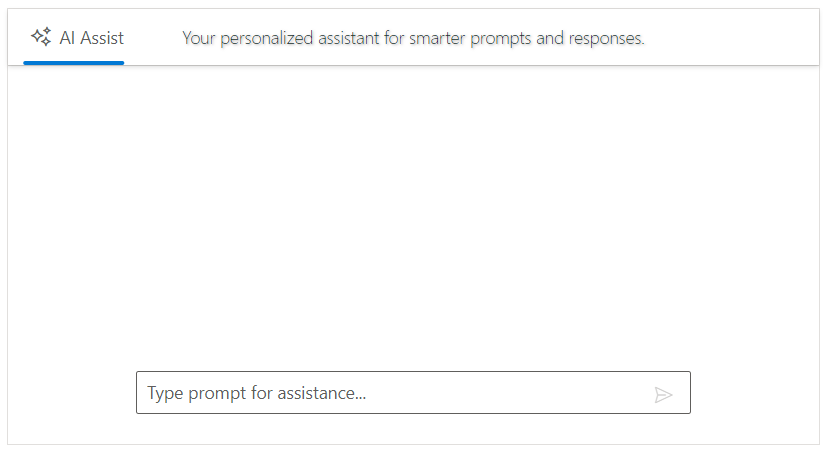
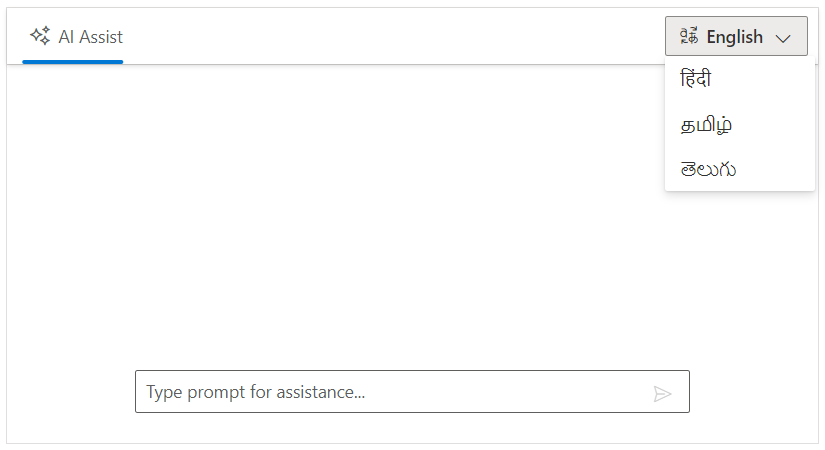
903620: Updated template sample for AI assist view.

diff --git a/ej2-asp-core-mvc/code-snippet/ai-assistview/toolbar-items/template/template.cs b/ej2-asp-core-mvc/code-snippet/ai-assistview/toolbar-items/template/template.cs
@@ -3,7 +3,7 @@ using Syncfusion.EJ2.Navigations;
 public List<ToolbarItem> Items = new List<ToolbarItem>();
 public ActionResult Template()
 {
-    Items.Add(new ToolbarItem { Type = ItemType.Input, Template = "Your personalized assistant for smarter prompts and responses.", Align = ItemAlign.Center });
+    Items.Add(new ToolbarItem { Type = ItemType.Input, Template = "<div id=\"ddMenu\"></div>", Align = ItemAlign.Center });
     ViewBag.Items = Items;
     return View();
 }

diff --git a/ej2-asp-core-mvc/ai-assistview/EJ2_ASP.NETCORE/toolbar-items.md b/ej2-asp-core-mvc/ai-assistview/EJ2_ASP.NETCORE/toolbar-items.md
@@ -26,6 +26,9 @@ You can customize the toolbar icons by using the `iconCss` property.
 {% highlight razor tabtitle="CSHTML" %}
 {% include code-snippet/ai-assistview/toolbar-items/align/tagHelper %}
 {% endhighlight %}
+{% highlight c# tabtitle="Align.cs" %}
+{% include code-snippet/ai-assistview/toolbar-items/align/align.cs %}
+{% endhighlight %}
 {% endtabs %}
 
 ![IconCss](images/align.png)
@@ -40,6 +43,9 @@ In the following example, toolbar item type is set as `Button`.
 {% highlight razor tabtitle="CSHTML" %}
 {% include code-snippet/ai-assistview/toolbar-items/itemtype/tagHelper %}
 {% endhighlight %}
+{% highlight c# tabtitle="Itemtype.cs" %}
+{% include code-snippet/ai-assistview/toolbar-items/itemtype/itemtype.cs %}
+{% endhighlight %}
 {% endtabs %}
 
 ![Itemtype](images/align.png)
@@ -51,6 +57,9 @@ You can use the `text` property to set the text for toolbar item.
 {% tabs %}
 {% highlight razor tabtitle="CSHTML" %}
 {% include code-snippet/ai-assistview/toolbar-items/text/tagHelper %}
+{% endhighlight %}
+{% highlight c# tabtitle="Text.cs" %}
+{% include code-snippet/ai-assistview/toolbar-items/text/text.cs %}
 {% endhighlight %}
 {% endtabs %}
 
@@ -64,6 +73,9 @@ You can use the `visible` property to specify whether to show or hide the toolba
 {% highlight razor tabtitle="CSHTML" %}
 {% include code-snippet/ai-assistview/toolbar-items/visible/tagHelper %}
 {% endhighlight %}
+{% highlight c# tabtitle="Visible.cs" %}
+{% include code-snippet/ai-assistview/toolbar-items/visible/visible.cs %}
+{% endhighlight %}
 {% endtabs %}
 
 ![Visible](images/visible.png)
@@ -75,6 +87,9 @@ You can use the `disabled` property to disable the toolbar item. By default, its
 {% tabs %}
 {% highlight razor tabtitle="CSHTML" %}
 {% include code-snippet/ai-assistview/toolbar-items/disabled/tagHelper %}
+{% endhighlight %}
+{% highlight c# tabtitle="Disabled.cs" %}
+{% include code-snippet/ai-assistview/toolbar-items/disabled/disabled.cs %}
 {% endhighlight %}
 {% endtabs %}
 
@@ -88,6 +103,9 @@ You can use the `tooltip` property to specify the tooltip text to be displayed o
 {% highlight razor tabtitle="CSHTML" %}
 {% include code-snippet/ai-assistview/toolbar-items/tooltip/tagHelper %}
 {% endhighlight %}
+{% highlight c# tabtitle="Tooltip.cs" %}
+{% include code-snippet/ai-assistview/toolbar-items/tooltip/tooltip.cs %}
+{% endhighlight %}
 {% endtabs %}
 
 ![Tooltip](images/tooltip.png)
@@ -99,6 +117,9 @@ You can use the `cssClass` property to customize the toolbar item.
 {% tabs %}
 {% highlight razor tabtitle="CSHTML" %}
 {% include code-snippet/ai-assistview/toolbar-items/cssClass/tagHelper %}
+{% endhighlight %}
+{% highlight c# tabtitle="CssClass.cs" %}
+{% include code-snippet/ai-assistview/toolbar-items/cssClass/cssClass.cs %}
 {% endhighlight %}
 {% endtabs %}
 
@@ -113,6 +134,9 @@ In the following example, toolbar item type is set with `Right`.
 {% tabs %}
 {% highlight razor tabtitle="CSHTML" %}
 {% include code-snippet/ai-assistview/toolbar-items/align/tagHelper %}
+{% endhighlight %}
+{% highlight c# tabtitle="Align.cs" %}
+{% include code-snippet/ai-assistview/toolbar-items/align/align.cs %}
 {% endhighlight %}
 {% endtabs %}
 
@@ -188,6 +212,9 @@ You can use the `template` property to add custom toolbar item in the AI AssistV
 {% highlight razor tabtitle="CSHTML" %}
 {% include code-snippet/ai-assistview/toolbar-items/template/tagHelper %}
 {% endhighlight %}
+{% highlight c# tabtitle="Template.cs" %}
+{% include code-snippet/ai-assistview/toolbar-items/template/template.cs %}
+{% endhighlight %}
 {% endtabs %}
 
 ![Template](images/template.png)
@@ -199,6 +226,9 @@ The [itemClicked](https://help.syncfusion.com/cr/aspnetcore-js2/Syncfusion.EJ2.I
 {% tabs %}
 {% highlight razor tabtitle="CSHTML" %}
 {% include code-snippet/ai-assistview/toolbar-items/itemClicked/tagHelper %}
+{% endhighlight %}
+{% highlight c# tabtitle="ItemClicked.cs" %}
+{% include code-snippet/ai-assistview/toolbar-items/itemClicked/itemClicked.cs %}
 {% endhighlight %}
 {% endtabs %}
 
